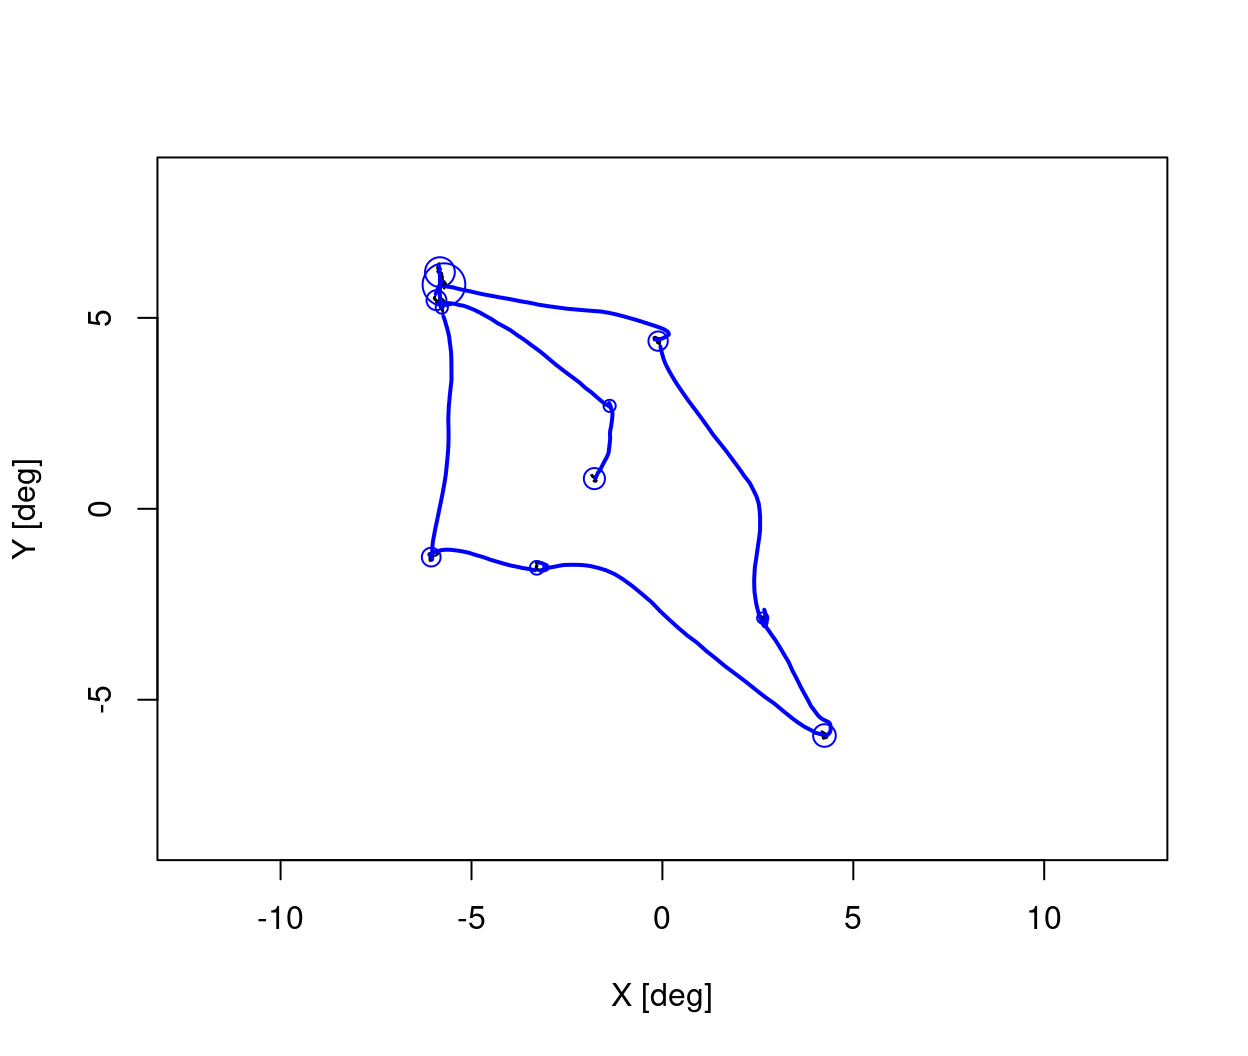
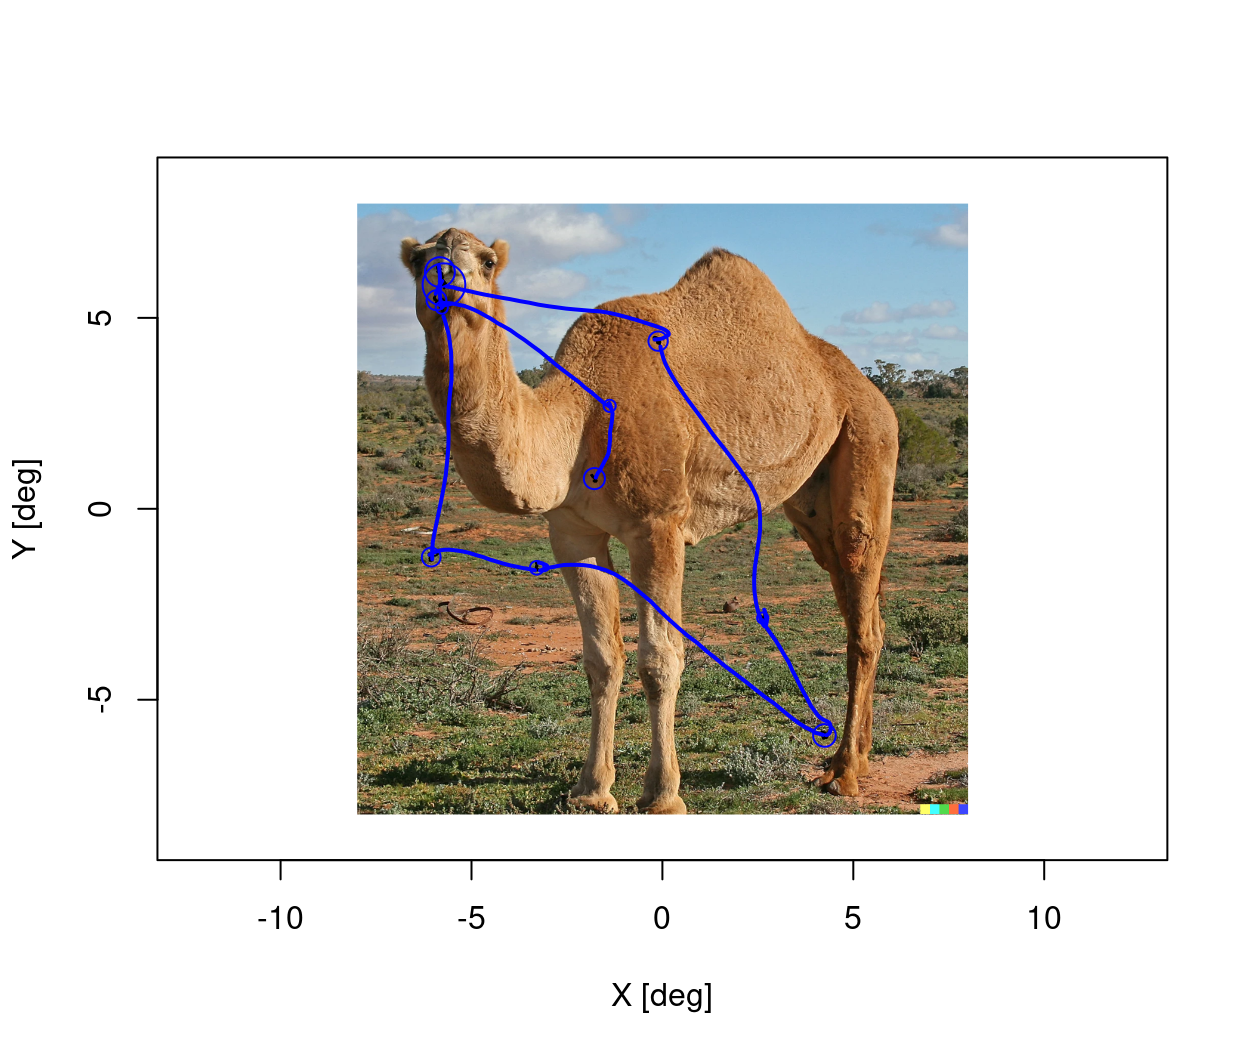
added img folder for img classification task

Changed region(s): [[0.2812, 0.1875, 0.7812, 0.7812]]

diff --git a/workshop_eyemovements/image_classification/worksheet_eye_movement_analysis_v2.html b/workshop_eyemovements/image_classification/worksheet_eye_movement_analysis_v2.html
@@ -534,9 +534,9 @@ window.Quarto = {
 <span id="cb16-3"><a href="#cb16-3" aria-hidden="true" tabindex="-1"></a></span>
 <span id="cb16-4"><a href="#cb16-4" aria-hidden="true" tabindex="-1"></a><span class="co"># Build image path manually</span></span>
 <span id="cb16-5"><a href="#cb16-5" aria-hidden="true" tabindex="-1"></a><span class="cf">if</span> (<span class="sc">!</span><span class="fu">is.na</span>(tr<span class="sc">$</span>fake_image) <span class="sc">&amp;&amp;</span> tr<span class="sc">$</span>fake_image <span class="sc">==</span> <span class="dv">1</span>) {</span>
-<span id="cb16-6"><a href="#cb16-6" aria-hidden="true" tabindex="-1"></a>  imgpath <span class="ot">&lt;-</span> <span class="fu">file.path</span>(<span class="st">".."</span>, <span class="st">"img"</span>, <span class="st">"fake"</span>, tr<span class="sc">$</span>img_name)</span>
+<span id="cb16-6"><a href="#cb16-6" aria-hidden="true" tabindex="-1"></a>  imgpath <span class="ot">&lt;-</span> <span class="fu">file.path</span>(<span class="st">"."</span>, <span class="st">"img"</span>, <span class="st">"fake"</span>, tr<span class="sc">$</span>img_name)</span>
 <span id="cb16-7"><a href="#cb16-7" aria-hidden="true" tabindex="-1"></a>} <span class="cf">else</span> {</span>
-<span id="cb16-8"><a href="#cb16-8" aria-hidden="true" tabindex="-1"></a>  imgpath <span class="ot">&lt;-</span> <span class="fu">file.path</span>(<span class="st">".."</span>, <span class="st">"img"</span>, <span class="st">"real"</span>, tr<span class="sc">$</span>img_name)</span>
+<span id="cb16-8"><a href="#cb16-8" aria-hidden="true" tabindex="-1"></a>  imgpath <span class="ot">&lt;-</span> <span class="fu">file.path</span>(<span class="st">"."</span>, <span class="st">"img"</span>, <span class="st">"real"</span>, tr<span class="sc">$</span>img_name)</span>
 <span id="cb16-9"><a href="#cb16-9" aria-hidden="true" tabindex="-1"></a>}</span>
 <span id="cb16-10"><a href="#cb16-10" aria-hidden="true" tabindex="-1"></a></span>
 <span id="cb16-11"><a href="#cb16-11" aria-hidden="true" tabindex="-1"></a><span class="co"># Load PNG directly</span></span>
@@ -719,9 +719,9 @@ window.Quarto = {
 <details open="" class="code-fold">
 <summary>Code</summary>
 <div class="sourceCode cell-code" id="cb24"><pre class="sourceCode r code-with-copy"><code class="sourceCode r"><span id="cb24-1"><a href="#cb24-1" aria-hidden="true" tabindex="-1"></a><span class="cf">if</span> (<span class="sc">!</span><span class="fu">is.na</span>(tr<span class="sc">$</span>fake_image) <span class="sc">&amp;&amp;</span> tr<span class="sc">$</span>fake_image <span class="sc">==</span> <span class="dv">1</span>) {</span>
-<span id="cb24-2"><a href="#cb24-2" aria-hidden="true" tabindex="-1"></a>  imgpath <span class="ot">&lt;-</span> <span class="fu">file.path</span>(<span class="st">".."</span>, <span class="st">"img"</span>, <span class="st">"fake"</span>, tr<span class="sc">$</span>img_name)</span>
+<span id="cb24-2"><a href="#cb24-2" aria-hidden="true" tabindex="-1"></a>  imgpath <span class="ot">&lt;-</span> <span class="fu">file.path</span>(<span class="st">"."</span>, <span class="st">"img"</span>, <span class="st">"fake"</span>, tr<span class="sc">$</span>img_name)</span>
 <span id="cb24-3"><a href="#cb24-3" aria-hidden="true" tabindex="-1"></a>} <span class="cf">else</span> {</span>
-<span id="cb24-4"><a href="#cb24-4" aria-hidden="true" tabindex="-1"></a>  imgpath <span class="ot">&lt;-</span> <span class="fu">file.path</span>(<span class="st">".."</span>, <span class="st">"img"</span>, <span class="st">"real"</span>, tr<span class="sc">$</span>img_name)</span>
+<span id="cb24-4"><a href="#cb24-4" aria-hidden="true" tabindex="-1"></a>  imgpath <span class="ot">&lt;-</span> <span class="fu">file.path</span>(<span class="st">"."</span>, <span class="st">"img"</span>, <span class="st">"real"</span>, tr<span class="sc">$</span>img_name)</span>
 <span id="cb24-5"><a href="#cb24-5" aria-hidden="true" tabindex="-1"></a>}</span>
 <span id="cb24-6"><a href="#cb24-6" aria-hidden="true" tabindex="-1"></a></span>
 <span id="cb24-7"><a href="#cb24-7" aria-hidden="true" tabindex="-1"></a>img_r <span class="ot">&lt;-</span> <span class="cn">NULL</span></span>
@@ -1510,9 +1510,9 @@ window.document.addEventListener("DOMContentLoaded", function (event) {
 <span id="cb25-269"><a href="#cb25-269" aria-hidden="true" tabindex="-1"></a></span>
 <span id="cb25-270"><a href="#cb25-270" aria-hidden="true" tabindex="-1"></a><span class="in"># Build image path manually</span></span>
 <span id="cb25-271"><a href="#cb25-271" aria-hidden="true" tabindex="-1"></a><span class="in">if (!is.na(tr$fake_image) &amp;&amp; tr$fake_image == 1) {</span></span>
-<span id="cb25-272"><a href="#cb25-272" aria-hidden="true" tabindex="-1"></a><span class="in">  imgpath &lt;- file.path("..", "img", "fake", tr$img_name)</span></span>
+<span id="cb25-272"><a href="#cb25-272" aria-hidden="true" tabindex="-1"></a><span class="in">  imgpath &lt;- file.path(".", "img", "fake", tr$img_name)</span></span>
 <span id="cb25-273"><a href="#cb25-273" aria-hidden="true" tabindex="-1"></a><span class="in">} else {</span></span>
-<span id="cb25-274"><a href="#cb25-274" aria-hidden="true" tabindex="-1"></a><span class="in">  imgpath &lt;- file.path("..", "img", "real", tr$img_name)</span></span>
+<span id="cb25-274"><a href="#cb25-274" aria-hidden="true" tabindex="-1"></a><span class="in">  imgpath &lt;- file.path(".", "img", "real", tr$img_name)</span></span>
 <span id="cb25-275"><a href="#cb25-275" aria-hidden="true" tabindex="-1"></a><span class="in">}</span></span>
 <span id="cb25-276"><a href="#cb25-276" aria-hidden="true" tabindex="-1"></a></span>
 <span id="cb25-277"><a href="#cb25-277" aria-hidden="true" tabindex="-1"></a><span class="in"># Load PNG directly</span></span>
@@ -1639,9 +1639,9 @@ window.document.addEventListener("DOMContentLoaded", function (event) {
 <span id="cb25-402"><a href="#cb25-402" aria-hidden="true" tabindex="-1"></a></span>
 <span id="cb25-403"><a href="#cb25-403" aria-hidden="true" tabindex="-1"></a><span class="in">```{r, fig.align='center', fig.width=6.5, fig.height=5.5}</span></span>
 <span id="cb25-404"><a href="#cb25-404" aria-hidden="true" tabindex="-1"></a><span class="in">if (!is.na(tr$fake_image) &amp;&amp; tr$fake_image == 1) {</span></span>
-<span id="cb25-405"><a href="#cb25-405" aria-hidden="true" tabindex="-1"></a><span class="in">  imgpath &lt;- file.path("..", "img", "fake", tr$img_name)</span></span>
+<span id="cb25-405"><a href="#cb25-405" aria-hidden="true" tabindex="-1"></a><span class="in">  imgpath &lt;- file.path(".", "img", "fake", tr$img_name)</span></span>
 <span id="cb25-406"><a href="#cb25-406" aria-hidden="true" tabindex="-1"></a><span class="in">} else {</span></span>
-<span id="cb25-407"><a href="#cb25-407" aria-hidden="true" tabindex="-1"></a><span class="in">  imgpath &lt;- file.path("..", "img", "real", tr$img_name)</span></span>
+<span id="cb25-407"><a href="#cb25-407" aria-hidden="true" tabindex="-1"></a><span class="in">  imgpath &lt;- file.path(".", "img", "real", tr$img_name)</span></span>
 <span id="cb25-408"><a href="#cb25-408" aria-hidden="true" tabindex="-1"></a><span class="in">}</span></span>
 <span id="cb25-409"><a href="#cb25-409" aria-hidden="true" tabindex="-1"></a></span>
 <span id="cb25-410"><a href="#cb25-410" aria-hidden="true" tabindex="-1"></a><span class="in">img_r &lt;- NULL</span></span>
